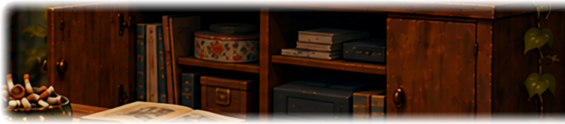
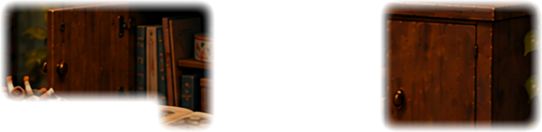
Fernsehmöbel öffnet nur noch die linke Tür

diff --git a/quest-ostern.html b/quest-ostern.html
@@ -410,10 +410,11 @@
     // --- Wohnzimmer (Koordinaten im Bild 1774 x 887) ---
     { id: 'w_regal',    ansicht: 'wohnzimmer', x: 862,  y: 336, w: 236, h: 146, typ: 'ausschnitt', zustand: 'wz_regal_offen', label: 'Schrank unter dem Bücherregal',
       patch: 'bilder/wz-regal-auf.png', patchX: 856, patchY: 330, patchW: 248, patchH: 158 },
-    // Schnittkante liegt unter den Porzellanfiguren — die stehen in beiden Bildern
-    // leicht versetzt, ein höherer Schnitt zerschneidet sie.
-    { id: 'w_tvmoebel', ansicht: 'wohnzimmer', x: 1215, y: 398, w: 559, h: 112, typ: 'ausschnitt', zustand: 'wz_tv_offen',    label: 'Fernsehmöbel',
-      patch: 'bilder/wz-tvmoebel-auf.png', patchX: 1209, patchY: 392, patchW: 565, patchH: 124 },
+    // Nur die linke Tür geht auf. Das mittlere Fach und der Couchtisch sind in
+    // beiden Bildern unterschiedlich gefüllt und bleiben darum aus dem Flicken
+    // ausgespart, sonst verändert sich beim Öffnen das halbe Möbel.
+    { id: 'w_tvmoebel', ansicht: 'wohnzimmer', x: 1215, y: 398, w: 205, h: 118, typ: 'ausschnitt', zustand: 'wz_tv_offen', label: 'Fernsehmöbel',
+      patch: 'bilder/wz-tvmoebel-auf.png', patchX: 1209, patchY: 390, patchW: 542, patchH: 132 },
     // Die Frau im Sessel: drei Frames. 0 = schlafend (Grundbild), 1 = aufgeschreckt, 2 = spricht.
     // Jeder Klick geht eine Phase weiter, nach der letzten wieder zurück auf schlafend.
     // Sessel ohne Anfisa. Liegt vor dem Bild an der Wand, damit ein abgehängtes Bild

diff --git a/UEBERGABE-OSTERN.md b/UEBERGABE-OSTERN.md
@@ -175,7 +175,7 @@ Vier Ausschnitte, alle mit `nah: ''` — **Nahaufnahmen fehlen noch**:
 
 ### Wohnzimmer im Detail
 - `w_regal` Schrank unter dem Bücherregal (862,336 236×146), Flicken mit Aussparung für die Tasse → Ei e12
-- `w_tvmoebel` Fernsehmöbel (1215,400 559×108) → Ei e13. Flicken, Kante unter den Porzellanfiguren — die stehen in den beiden Bildern versetzt.
+- `w_tvmoebel` Fernsehmöbel (1215,398 205×118) → Ei e13. Nur die linke Tür geht auf; mittleres Fach und Couchtisch sind ausgespart, die sind in den beiden Bildern unterschiedlich gefüllt.
 - `w_gemaelde` Bild an der Wand (415,0 275×188), typ `nehmen` → Gegenstand `gemaelde`
 - `w_nagel` derselbe Fleck, typ `ziel`, nur sichtbar wenn `bild_ab`. Nimmt das
   Bild wieder entgegen und hebt `bild_ab` auf. Damit lässt sich das Bild
